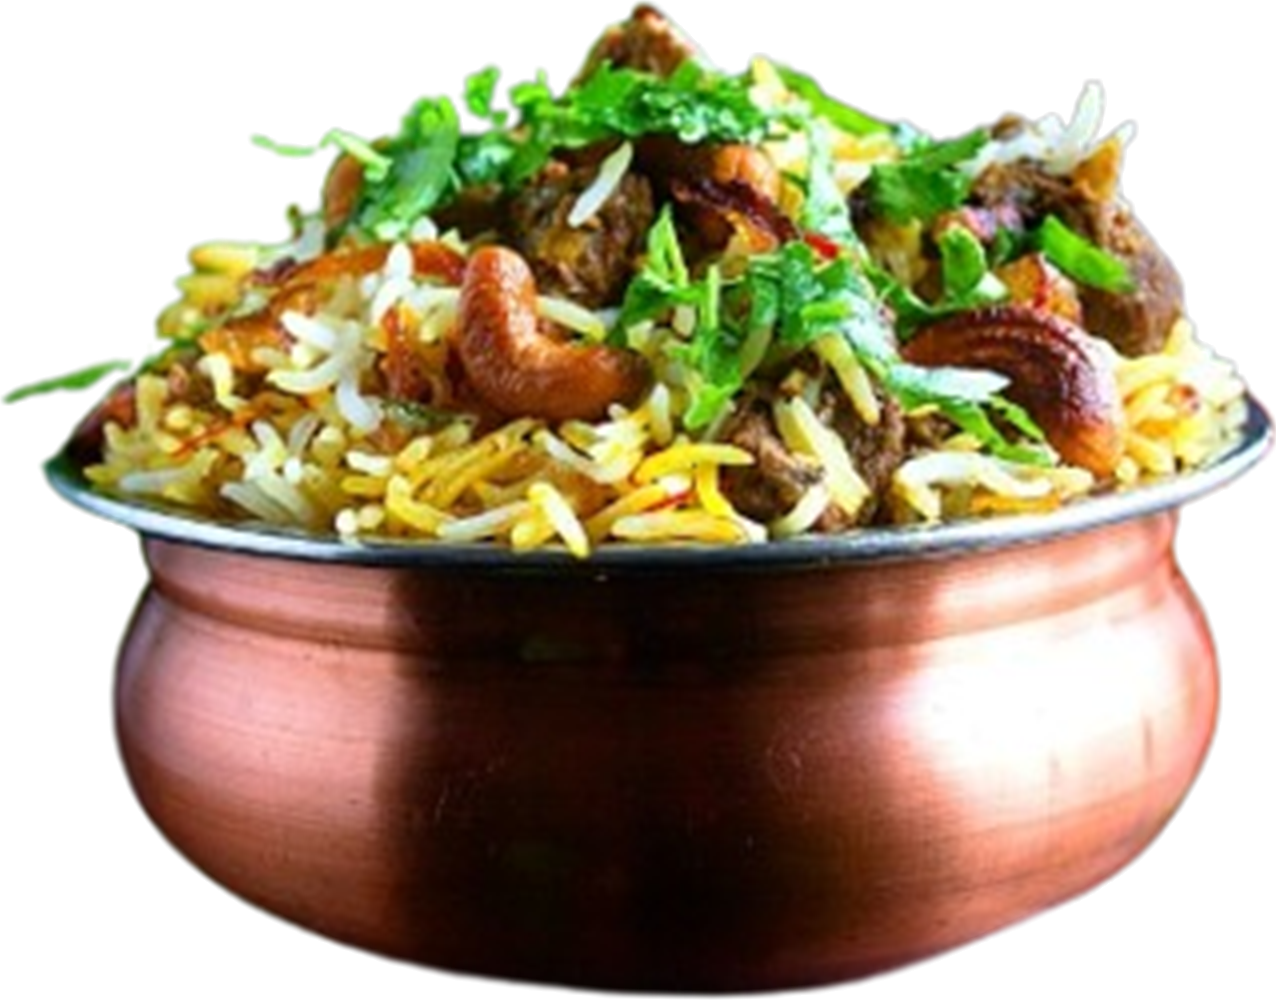
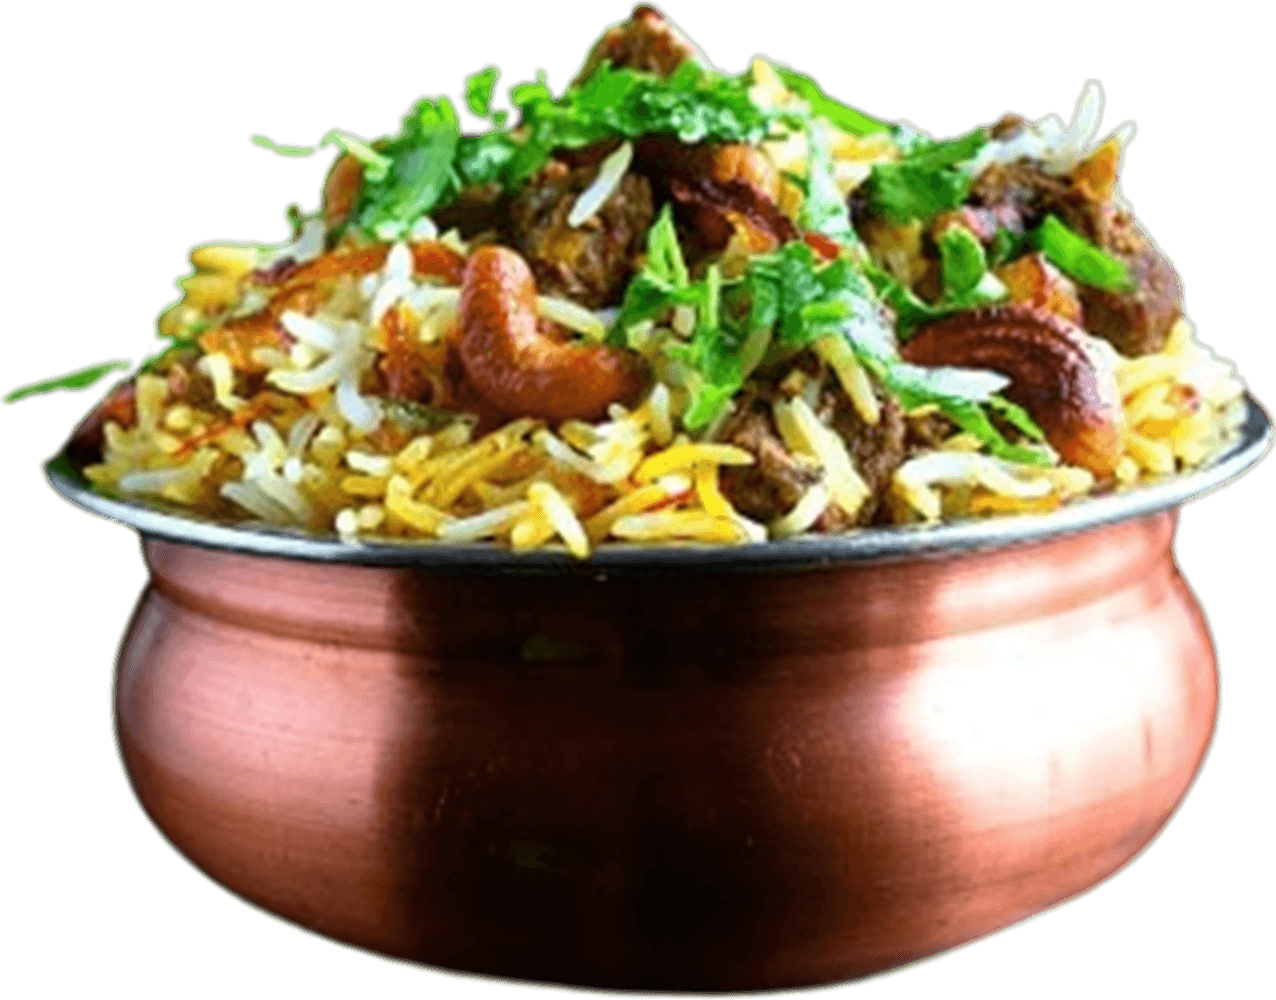
fix: security hardening, api edge caching, image compression and mobile nav

diff --git a/src/components/layout/Navbar.tsx b/src/components/layout/Navbar.tsx
@@ -166,16 +166,61 @@ export default function Navbar() {
                   </Link>
                 )
               })}
+
+              {/* Mobile-accessible Favorites */}
+              <Link
+                href="/favorites"
+                onClick={() => setMobileMenuOpen(false)}
+                className={`flex items-center justify-between px-3.5 py-3 rounded-xl no-underline text-sm transition-all ${
+                  pathname === '/favorites' ? 'bg-[#C7230F] text-[#FFFFEF] font-black' : 'text-[#C7230F] hover:bg-[#C7230F]/10 font-bold'
+                }`}
+              >
+                <div className="flex items-center gap-3">
+                  <Heart size={18} className={pathname === '/favorites' ? 'stroke-[#FFFFEF] fill-[#FFFFEF]' : 'stroke-[#C7230F]'} />
+                  <span>Favorites</span>
+                </div>
+                {mounted && favCount > 0 && (
+                  <span className="bg-[#C7230F] text-[#FFFFEF] text-[10px] font-black px-2 py-0.5 rounded-full border border-[#FFFFEF]">
+                    {favCount}
+                  </span>
+                )}
+              </Link>
+
+              {/* Mobile-accessible Account & Orders */}
+              <Link
+                href="/orders"
+                onClick={() => setMobileMenuOpen(false)}
+                className={`flex items-center gap-3 px-3.5 py-3 rounded-xl no-underline text-sm transition-all ${
+                  pathname.startsWith('/orders') ? 'bg-[#C7230F] text-[#FFFFEF] font-black' : 'text-[#C7230F] hover:bg-[#C7230F]/10 font-bold'
+                }`}
+              >
+                <User size={18} className={pathname.startsWith('/orders') ? 'stroke-[#FFFFEF]' : 'stroke-[#C7230F]'} />
+                <span>My Account & Orders</span>
+              </Link>
             </div>
 
-            <div className="mt-auto pt-6 border-t border-[#C7230F]/20 flex flex-col gap-2.5">
+            <div className="mt-auto pt-5 border-t border-[#C7230F]/20 flex flex-col gap-2.5">
               <Link
                 href="/menu"
                 onClick={() => setMobileMenuOpen(false)}
-                className="bg-[#C7230F] text-[#FFFFEF] font-extrabold text-sm py-3 rounded-full text-center no-underline shadow-md"
+                className="bg-[#C7230F] text-[#FFFFEF] font-extrabold text-sm py-3 rounded-full text-center no-underline shadow-md hover:bg-[#A31C0C] transition-colors"
               >
                 Order Now →
               </Link>
+
+              <a
+                href="https://www.instagram.com/camosfoods?stkn=NHRuM3g5ZGRzYXR4"
+                target="_blank"
+                rel="noopener noreferrer"
+                className="flex items-center justify-center gap-2 py-2 px-3 text-[#C7230F] font-bold text-xs no-underline hover:underline"
+              >
+                <svg width="15" height="15" viewBox="0 0 24 24" fill="none" stroke="currentColor" strokeWidth="2.2" strokeLinecap="round" strokeLinejoin="round">
+                  <rect width="20" height="20" x="2" y="2" rx="5" ry="5" />
+                  <path d="M16 11.37A4 4 0 1 1 12.63 8 4 4 0 0 1 16 11.37z" />
+                  <line x1="17.5" x2="17.51" y1="6.5" y2="6.5" />
+                </svg>
+                <span>@camosfoods on Instagram</span>
+              </a>
             </div>
           </div>
         </div>

diff --git a/src/app/api/orders/route.ts b/src/app/api/orders/route.ts
@@ -300,21 +300,24 @@ export async function POST(request: NextRequest) {
           }
         })
 
+        const origin = request.headers.get('origin') || process.env.NEXT_PUBLIC_APP_URL || 'https://www.camosfoods.com'
+        const appUrl = origin.replace(/\/$/, '')
+
         const sessionParams: Stripe.Checkout.SessionCreateParams = {
           payment_method_types: ['card'],
           line_items: lineItems,
           mode: 'payment',
           customer_email: customer?.email,
           metadata: { order_id: order.id, user_id: user.id, coupon_id: couponId || '' },
-          success_url: `${process.env.NEXT_PUBLIC_APP_URL}/orders?success=true`,
-          cancel_url: `${process.env.NEXT_PUBLIC_APP_URL}/cart`,
+          success_url: `${appUrl}/orders?success=true`,
+          cancel_url: `${appUrl}/cart`,
         }
 
         if (discountAmount > 0) {
           const stripeCoupon = await stripe.coupons.create({
             amount_off: Math.round(discountAmount * 100),
             currency: 'pkr',
-            name: 'FoodApp Discount',
+            name: "Camo's Foods Discount",
           })
           sessionParams.discounts = [{ coupon: stripeCoupon.id }]
         }

diff --git a/src/lib/adminAuth.ts b/src/lib/adminAuth.ts
@@ -10,18 +10,20 @@ const ADMIN_EMAILS = ['camosfoodapp@gmail.com', 'camosfoodapp@gamil.com', 'admin
  */
 export async function checkIsAdmin(request?: NextRequest): Promise<boolean> {
   try {
-    const adminKey = process.env.ADMIN_SECRET_KEY || 'ORGANIC;CHEMISTRY6969'
+    const adminKey = process.env.ADMIN_SECRET_KEY
 
-    // 1. Check custom request header
-    if (request) {
+    // 1. Check custom request header (only if secret key is properly configured)
+    if (request && adminKey) {
       const headerKey = request.headers.get('x-admin-key')
       if (headerKey && headerKey === adminKey) return true
     }
 
-    // 2. Check admin_key HTTP-only cookie
-    const cookieStore = await cookies()
-    const cookieKey = cookieStore.get('admin_key')?.value
-    if (cookieKey && cookieKey === adminKey) return true
+    // 2. Check admin_key HTTP-only cookie (only if secret key is properly configured)
+    if (adminKey) {
+      const cookieStore = await cookies()
+      const cookieKey = cookieStore.get('admin_key')?.value
+      if (cookieKey && cookieKey === adminKey) return true
+    }
 
     // 3. Fallback: Check Supabase Auth User
     const supabase = await createClient()

diff --git a/src/app/api/auth/login/route.ts b/src/app/api/auth/login/route.ts
@@ -9,7 +9,7 @@ const loginSchema = z.object({
 })
 
 const ADMIN_EMAILS = ['camosfoodapp@gmail.com', 'camosfoodapp@gamil.com', 'admin@camosfoods.com']
-const ADMIN_PASSWORD = process.env.ADMIN_SECRET_KEY || 'ORGANIC;CHEMISTRY6969'
+const ADMIN_PASSWORD = process.env.ADMIN_SECRET_KEY
 
 export async function POST(request: NextRequest) {
   try {
@@ -22,7 +22,7 @@ export async function POST(request: NextRequest) {
     const cookieStore = await cookies()
 
     const isAdminCredential =
-      ADMIN_EMAILS.includes(normalizedEmail) || password === ADMIN_PASSWORD
+      ADMIN_EMAILS.includes(normalizedEmail) && Boolean(ADMIN_PASSWORD && password === ADMIN_PASSWORD)
 
     // 1. Attempt standard login
     let { data: authData, error } = await supabase.auth.signInWithPassword({
@@ -129,7 +129,7 @@ export async function POST(request: NextRequest) {
     }
 
     // 4. Set HTTP-only session cookies
-    if (shouldBeAdmin) {
+    if (shouldBeAdmin && ADMIN_PASSWORD) {
       cookieStore.set('admin_key', ADMIN_PASSWORD, {
         httpOnly: true,
         secure: process.env.NODE_ENV === 'production',

diff --git a/next.config.ts b/next.config.ts
@@ -1,6 +1,7 @@
 import type { NextConfig } from 'next'
 
 const nextConfig: NextConfig = {
+  poweredByHeader: false,
   // Allow Cloudflare Tunnels and local addresses in dev mode
   allowedDevOrigins: ['*.trycloudflare.com', 'localhost:3000', '127.0.0.1:3000'],
   images: {
@@ -14,6 +15,31 @@ const nextConfig: NextConfig = {
     serverActions: {
       allowedOrigins: ['*.trycloudflare.com', 'localhost:3000', '127.0.0.1:3000'],
     },
+  },
+  async headers() {
+    return [
+      {
+        source: '/(.*)',
+        headers: [
+          {
+            key: 'X-Frame-Options',
+            value: 'DENY',
+          },
+          {
+            key: 'X-Content-Type-Options',
+            value: 'nosniff',
+          },
+          {
+            key: 'Referrer-Policy',
+            value: 'strict-origin-when-cross-origin',
+          },
+          {
+            key: 'Permissions-Policy',
+            value: 'camera=(), microphone=(), geolocation=()',
+          },
+        ],
+      },
+    ]
   },
 }
 

diff --git a/src/app/api/auth/signup/route.ts b/src/app/api/auth/signup/route.ts
@@ -18,14 +18,15 @@ const signupSchema = z.object({
 })
 
 const ADMIN_EMAILS = ['camosfoodapp@gmail.com', 'camosfoodapp@gamil.com', 'admin@camosfoods.com']
-const ADMIN_PASSWORD = process.env.ADMIN_SECRET_KEY || 'ORGANIC;CHEMISTRY6969'
+const ADMIN_PASSWORD = process.env.ADMIN_SECRET_KEY
 
 export async function POST(request: NextRequest) {
   try {
     const body = await request.json()
     const parsed = signupSchema.parse(body)
     const normalizedEmail = parsed.email.trim().toLowerCase()
-    const isAdminAccount = ADMIN_EMAILS.includes(normalizedEmail) || parsed.password === ADMIN_PASSWORD
+    const isAdminAccount =
+      ADMIN_EMAILS.includes(normalizedEmail) && Boolean(ADMIN_PASSWORD && parsed.password === ADMIN_PASSWORD)
 
     const supabase = await createClient()
     const serviceClient = await createServiceClient()

diff --git a/src/app/api/menu/route.ts b/src/app/api/menu/route.ts
@@ -2,6 +2,8 @@ import { NextRequest, NextResponse } from 'next/server'
 import { createServiceClient } from '@/lib/supabase/server'
 import { REAL_MENU_ITEMS, enrichFoodItem } from '@/lib/menuData'
 
+export const revalidate = 60
+
 export async function GET(request: NextRequest) {
   const supabase = await createServiceClient()
   const { searchParams } = new URL(request.url)
@@ -76,5 +78,12 @@ export async function GET(request: NextRequest) {
     .eq('is_active', true)
     .or('ends_at.is.null,ends_at.gt.now()')
 
-  return NextResponse.json({ data: { items, deals: deals || [] } })
+  return NextResponse.json(
+    { data: { items, deals: deals || [] } },
+    {
+      headers: {
+        'Cache-Control': 'public, s-maxage=60, stale-while-revalidate=300',
+      },
+    }
+  )
 }

diff --git a/src/app/HomepageClient.tsx b/src/app/HomepageClient.tsx
@@ -72,7 +72,7 @@ export default function HomepageClient() {
             </Link>
 
             {/* Features Row */}
-            <div className="flex gap-[35px] items-center">
+            <div className="flex gap-4 sm:gap-[35px] items-center">
               <div className="flex flex-col items-center gap-3 cursor-pointer group">
                 <div className="w-[54px] h-[54px] bg-[#C7230F]/10 group-hover:bg-[#C7230F] group-hover:text-[#FFFFEF] rounded-full flex items-center justify-center text-[#C7230F] text-xl transition-all duration-300 group-hover:scale-105 border border-[#C7230F]/20">
                   <Award size={20} />

diff --git a/src/app/api/auth/admin-login/route.ts b/src/app/api/auth/admin-login/route.ts
@@ -6,9 +6,9 @@ export async function POST(request: NextRequest) {
     const { key, secretKey, passkey, password } = await request.json()
     const providedKey = (key || secretKey || passkey || password || '').trim()
 
-    const expectedKey = process.env.ADMIN_SECRET_KEY || 'camos_admin_secure_key_2026'
+    const expectedKey = process.env.ADMIN_SECRET_KEY
 
-    if (providedKey && providedKey === expectedKey) {
+    if (expectedKey && providedKey && providedKey === expectedKey) {
       const cookieStore = await cookies()
       cookieStore.set('admin_key', expectedKey, {
         httpOnly: true,
